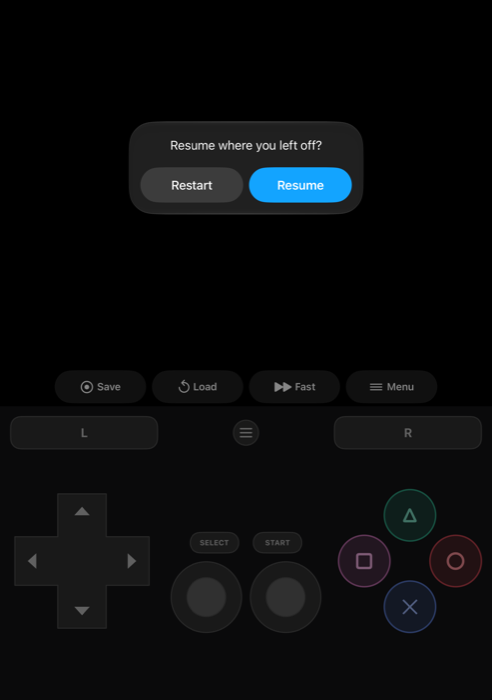
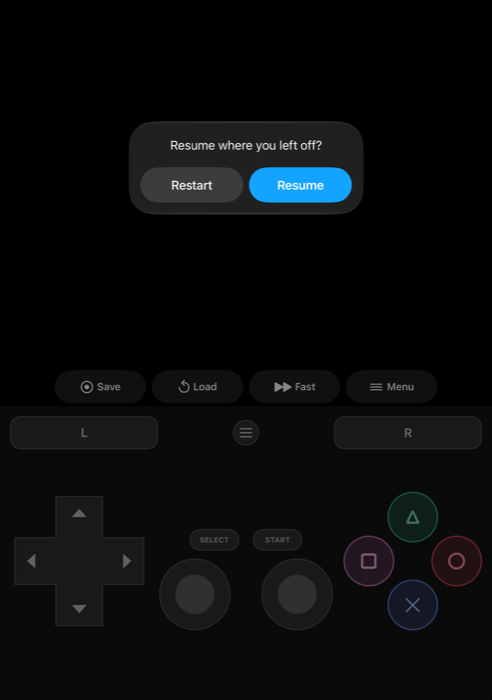
Space the PlayStation analog sticks apart for thumbs
A gap of 0.9x the stick radius (at least 24 pt) between the sticks and 16 pt to the
clusters beside them; the clusters shrink slightly to make room. Tests enforce the gaps.

diff --git a/App/Input/ControllerLayout.swift b/App/Input/ControllerLayout.swift
@@ -153,8 +153,11 @@ struct ControllerLayout: Equatable, Sendable {
         // PlayStation: leave the middle for two analog sticks side by side.
         let wantsSticks = pad == .playstation
         let stickR: CGFloat = wantsSticks ? Self.clamp(area.width * 0.075, 30, 50) : 0
+        // Room for thumbs: a clear gap between the two sticks, and between each stick and
+        // the cluster beside it.
+        let stickGap = max(24, stickR * 0.9), clusterGap: CGFloat = 16
         if wantsSticks {
-            size = max(60, min(size, (area.width - 2 * gap - (4 * stickR + 3 * gap)) / 2))
+            size = max(60, min(size, (area.width - 4 * stickR - stickGap - 2 * clusterGap) / 2))
         }
 
         // Vertical placement: overlay hugs the bottom edge; the panel centers the clusters in
@@ -196,8 +199,8 @@ struct ControllerLayout: Equatable, Sendable {
             // Sticks level with the bottom of the clusters, Select/Start just above them.
             let y = min(clusterY + size / 2 - stickR, area.maxY - stickR)
             stickRadius = stickR
-            leftStickCenter = CGPoint(x: area.midX - stickR - gap / 2, y: y)
-            rightStickCenter = CGPoint(x: area.midX + stickR + gap / 2, y: y)
+            leftStickCenter = CGPoint(x: area.midX - stickR - stickGap / 2, y: y)
+            rightStickCenter = CGPoint(x: area.midX + stickR + stickGap / 2, y: y)
             ssY = max(area.minY + topReserved, y - stickR - gap - ssH)
         } else {
             stickRadius = 0

diff --git a/Tests/PSXTests.swift b/Tests/PSXTests.swift
@@ -103,12 +103,13 @@ final class PSXTests: XCTestCase {
                 let l = ControllerLayout(bounds: CGRect(origin: .zero, size: size), style: style, system: .psx)
                 XCTAssertGreaterThanOrEqual(l.stickRadius, 30, "\(size) \(style)")
                 let sticks = [l.leftStickCenter, l.rightStickCenter]
-                XCTAssertGreaterThanOrEqual(hypot(sticks[0].x - sticks[1].x, sticks[0].y - sticks[1].y), 2 * l.stickRadius)
+                XCTAssertGreaterThanOrEqual(hypot(sticks[0].x - sticks[1].x, sticks[0].y - sticks[1].y) - 2 * l.stickRadius,
+                                            24, "sticks need a thumb's gap between them at \(size)")
                 for c in sticks {
                     let stick = CGRect(x: c.x - l.stickRadius, y: c.y - l.stickRadius,
                                        width: 2 * l.stickRadius, height: 2 * l.stickRadius)
                     XCTAssertGreaterThanOrEqual(hypot(c.x - l.dpadCenter.x, c.y - l.dpadCenter.y),
-                                                l.stickRadius + l.dpadRadius, "stick overlaps d-pad at \(size)")
+                                                l.stickRadius + l.dpadRadius + 12, "stick crowds the d-pad at \(size)")
                     for (_, center) in l.faceButtons {
                         XCTAssertGreaterThanOrEqual(hypot(c.x - center.x, c.y - center.y),
                                                     l.stickRadius + l.faceRadius, "stick overlaps a face button at \(size)")
